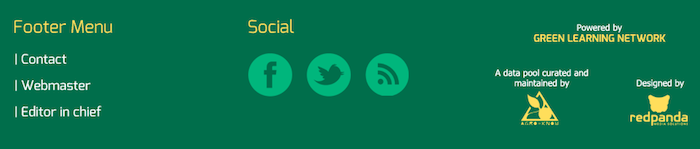
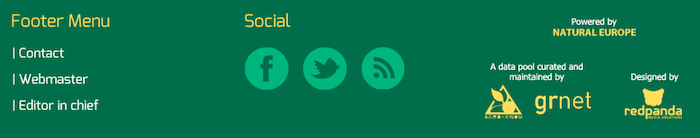
Pathways

diff --git a/index.html b/index.html
@@ -134,8 +134,8 @@
                 <!-------------------------------------------------------- Treasures-->
                 <section class="icons_nav treasures">
                     <nav class="aligncenter">
-                        <a href="listing.html?query=keyword:anthropology,palaiontology" class="trea0"><span>From the past</span></a>
-                        <a href="listing.html?query=HNHM+natural+phenomena" class="trea2"><span>Life in Nature</span></a>
+                        <a href="listing.html?query=keyword:anthropology,paleontology" class="trea0"><span>From the past</span></a>
+                        <a href="listing.html?query=natural+phenomena" class="trea2"><span>Life in Nature</span></a>
                         <a href="listing.html?query=wood booklet" class="trea1"><span>Wood Booklet</span></a>
                     </nav>
                 </section>
@@ -161,61 +161,51 @@
                     
                     <div>
                         <div class="moduletable slidermodule">
-                            <h3 class="yellow_decoration">Highlighted Specimens</h3>
-                            <div class="articles_mod_list is_slider" style="position: relative; width: 353px; height:400px;" >
+                            <h3 class="yellow_decoration">Highlighted Pathways from other Museum's'</h3>
+                            <div class="articles_mod_list is_slider" style="position: relative; width: 353px; height:480px;" >
                                 
                                 <!-- page 1 -->
                                 <div class="slider_page">
                                     <div class="slider_page_singleitem">
-                                        <a class="hasshadow" href="http://jme.collections.natural-europe.eu/content/297df056-0b43-414f-a604-4a166fc3b51b" target="_blank">
-                                            <img src="http://jme.collections.natural-europe.eu/content/297df056-0b43-414f-a604-4a166fc3b51b" alt="thumb" width="320"/>
+                                        <a class="hasshadow" href="http://education.natural-europe.eu/natural_europe/exhibits/show/pathway-slug-160/to-begin-with?nhm=MNHN" target="_blank">
+                                            <img src="images/endemic.jpg" alt="thumb" width="320"/>
                                         </a>
                                         <h2>
-                                            <a href="http://jme.collections.natural-europe.eu/content/297df056-0b43-414f-a604-4a166fc3b51b"> Urvogel Archaeopteryx lithographica</a>
+                                            <a href="http://education.natural-europe.eu/natural_europe/exhibits/show/pathway-slug-160/to-begin-with?nhm=MNHN" target="_blank"> Mediterranean Basin Endemic Species</a>
                                         </h2>
-                                        <!--<p>
-                                        The planned phasing out of milk quotas in the EU, and the transition phase takes place in a highly dynamic environment.
+                                        <p>
+                                        In this pathway the visitor is invited to follow a virtual visit through the existing exhibitions in the museums, to learn more about endemic species from Crete and Portugal.
+                                        Is proposed a virtual visit at the Natural History Museum of Crete (Greece) and the National Museum of Natural History and Science of Lisbon (Portugal), and its Botanic Garden.
                                         </p>
-                                        <div class="info clearfix">
-                                         <div class="floatleft">{j! rating}</div>
-                                         <a href="#">View reviewing history</a> <a href="#">View rating history</a>
-                                         </div>-->
                                     </div>
                                 </div>
                                 <!-- page 2 -->
                                 <div class="slider_page">
                                     <div class="slider_page_singleitem">
-                                        <a class="hasshadow" href="http://nhmc.collections.natural-europe.eu/content/b85b71f4-8550-44cf-9c8c-051f8fc6b0f6" target="_blank">
-                                            <img src="http://nhmc.collections.natural-europe.eu/content/b85b71f4-8550-44cf-9c8c-051f8fc6b0f6" alt="thumb" width="320" />
+                                        <a class="hasshadow" href="http://education.natural-europe.eu/natural_europe/exhibits/show/regional_ecosystems/to-begin-with?nhm=NHMC" target="_blank">
+                                            <img src="images/ecosystems.jpg" alt="thumb" width="320" />
                                         </a>
                                         <h2>
-                                            <a href="http://nhmc.collections.natural-europe.eu/content/b85b71f4-8550-44cf-9c8c-051f8fc6b0f6">Crab spider</a>
+                                            <a href="http://education.natural-europe.eu/natural_europe/exhibits/show/regional_ecosystems/to-begin-with?nhm=NHMC" target="_blank">Regional Ecosystems</a>
                                         </h2>
-                                        <!--<p>
-                                        The video describes the importance of the timely vaccination in livestock, in order to prevent the occasionally occurring Foot and Mouth Disease (FMD).
+                                        <p>
+                                        The environment around us integrates different ecosystems. Towns, villages, reservoirs, dams, manmade forests are examples of altered/artificial ecosystems, while a natural lake, a shrubland, a forest, a desert, a river, a coast or the sea are natural ecosystems.
                                         </p>
-                                        <div class="info clearfix">
-                                         <div class="floatleft">{j! rating}</div>
-                                         <a href="#">View reviewing history</a><a href="#">View rating history</a>
-                                         </div>-->
                                     </div>
                                 </div>
                                 <!-- page 3 -->
                                 <div class="slider_page">
                                     <div class="slider_page_singleitem">
-                                        <a class="hasshadow" href="http://tnhm.collections.natural-europe.eu/content/4354a070-d4b4-4b73-af4a-20831df5c5dd" target="_blank">
-                                            <img src="http://tnhm.collections.natural-europe.eu/content/4354a070-d4b4-4b73-af4a-20831df5c5dd" alt="thumb" width="320" />
+                                        <a class="hasshadow" href="http://education.natural-europe.eu/natural_europe/items/show/2598?eidteaser=340&nhm=TNHM" target="_blank">
+                                            <img src="images/urban_trees.jpg" alt="thumb" width="320" />
                                         </a>
                                         <h2>
-                                            <a href="http://tnhm.collections.natural-europe.eu/content/4354a070-d4b4-4b73-af4a-20831df5c5dd">Crucian Carp</a>
+                                            <a href="http://education.natural-europe.eu/natural_europe/items/show/2598?eidteaser=340&nhm=TNHM" target="_blank">Urban Trees</a>
                                         </h2>
-                                        <!--<p>
-                                         The video describes the importance of the timely vaccination in livestock, in order to prevent the occasionally occurring Foot and Mouth Disease (FMD).
+                                        <p>
+                                         The subject of the lecture is trees. Lecture is suitable for introducing a new subject and reviewing. Children are taught how to identify trees with the help of distinguishing characteristics, and more information about trees and their usage is given. Lecture consists of three parts: introductive part, fieldtrip to the park near the museum (Tornide väljak) and follow-up at school. 
                                          </p>
-                                         <div class="info clearfix">
-                                         <div class="floatleft">{j! rating}</div>
-                                         <a href="#">View reviewing history</a><a href="#">View rating history</a>
-                                         </div>-->
+                                         
                                     </div>
                                 </div>
                             </div>
@@ -223,11 +213,11 @@
                     </div>
                                     <!--end highlighted-->
                 
-                    <!--species of the day-->
+                    <!--TEACHERS PATHWAYS-->
                     
                     <div class="width330">
                         <div class="moduletable slidermodule">
-                            <h3 class="green_decoration">Species of the day</h3>
+                            <h3 class="green_decoration">Teachers Pathways</h3>
                             <div class="articles_mod_list is_slider" style="position: relative; width: 353px; height:400px;"> 
                                 
                                 
@@ -237,18 +227,15 @@
                                 <div class="slider_page">
                                     <div class="slider_page_singleitem">
                                         <a class="hasshadow" href="item.html?id=14349" target="_blank">
-                                            <img src="http://publication.nhmus.hu/NatEu/HNHM_Zoology/HNHM-DIP_4-aurl.jpg" alt="thumb" width="320"/>
+                                            <img src="images/no-image.gif" alt="thumb" width="90%"/>
                                         </a>
                                         <h2>
-                                            <a href="http://publication.nhmus.hu/NatEu/HNHM_Zoology/HNHM-DIP_4-aurl.jpg">robberfly (Laphria chrysotelus)</a>
+                                            <a href="#">requirements missing</a>
                                         </h2>
-                                        <!--<p>
-                                        The planned phasing out of milk quotas in the EU, and the transition phase takes place in a highly dynamic environment.
+                                        <p>
+                                        An example item just to feel the mockup
                                         </p>
-                                        <div class="info clearfix">
-                                         <div class="floatleft">{j! rating}</div>
-                                         <a href="#">View reviewing history</a> <a href="#">View rating history</a>
-                                         </div>-->
+
                                     </div>
                                 </div>
                                 
@@ -256,18 +243,14 @@
                                 <div class="slider_page">
                                     <div class="slider_page_singleitem">
                                         <a class="hasshadow" href="item.html?id=14349" target="_blank">
-                                            <img src="http://publication.nhmus.hu/NatEu/HNHM_Zoology/HNHM-DIP_4-aurl.jpg" alt="thumb" width="320"/>
+                                            <img src="images/no-image.gif" alt="thumb" width="90%"/>
                                         </a>
                                         <h2>
-                                            <a href="http://publication.nhmus.hu/NatEu/HNHM_Zoology/HNHM-DIP_4-aurl.jpg">A second item</a>
+                                            <a href="#">requirements missing</a>
                                         </h2>
-                                        <!--<p>
-                                         The planned phasing out of milk quotas in the EU, and the transition phase takes place in a highly dynamic environment.
-                                         </p>
-                                         <div class="info clearfix">
-                                         <div class="floatleft">{j! rating}</div>
-                                         <a href="#">View reviewing history</a> <a href="#">View rating history</a>
-                                         </div>-->
+                                        <p>
+                                        An example item just to feel the mockup
+                                        </p>
                                     </div>
                                 </div>
 
@@ -290,6 +273,26 @@
             <!--footer-->
             <section class="supporters">
                 <div class="inner aligncenter">
+                    <div class="footer_menu floatleft">
+                        <img src="style/images/footer_menu_title.png">
+                        <ul class="">
+                            <li><a href="mailto:mtminfo@mttm.hu" >| Contact</a></li>
+                            <li><a href="mailto:rajczy@mttm.hu">| Webmaster</a></li>
+                            <li><a href="mailto:vasarhelyi@mttm.hu" >| Editor in chief </a></li>
+                        </ul>
+                    </div>
+                    <div class="footer_social floatleft">
+                        <img src="style/images/footer_social.png">
+                        
+                    </div>
+                    <div class="footer_links floatleft">
+                        <a href="http://www.natural-europe.eu/el"><img src="style/images/powered_by.png"></a>
+                        <div>
+                        <img src="style/images/curated_by.png">
+                        <img src="style/images/designed_by.png">
+                        </div>
+                    </div>
+                    
                     <!--<a href="#" class="developed_by">Developed by</a>
                     <a href="#" class="operated_by">Operated by</a>
                     <a href="#" class="designed_by">Designed by</a>

diff --git a/style/my-style.css b/style/my-style.css
@@ -712,6 +712,7 @@ li.slider_page_listitem > div .info > a {
 .slider_page_singleitem a
 {
     color:white;
+    font-size:14px;
 }
 
 .slider_page_singleitem a:hover
@@ -788,34 +789,41 @@ li.slider_page_listitem > div .info > a {
 .supporters {
 	height:190px;
 	/*padding-top:54px;*/
-	background:#006e4b url(images/footer_static.png) center center no-repeat;
+	background:#006e4b;
+    padding:20px 30px 0px 120px;
     border-top:15px solid #ffde5b;
 }
-.supporters a {
-	text-align:center;
-	font-size:10px;
-	color:#919191;
-	padding:0 0 103px 0;
-	margin:0 50px;
-	display:inline-block;
+
+.footer_menu{
+    padding: 0px 40px 0px 40px;
+
 }
-.developed_by {
-	background:url(images/uah.jpg) center bottom no-repeat;
-	width:82px;
+.footer_menu ul{
+    list-style : none;
+    text-align:left;
 }
-.operated_by {
-	background:url(images/agroknow.jpg) center bottom no-repeat;
-	width:88px;
+
+.footer_menu ul a{
+    color:white;
 }
-.designed_by {
-	background:url(images/redpanda.jpg) center bottom no-repeat;
-	width:90px;
+
+.footer_menu ul a:hover{
+    color:white;
+    background:none;
+    font-size:14px;
 }
-.supported_by {
-	text-align:left !important;
-	background:url(images/naturalEurope.png) center bottom no-repeat;
-	width:185px;
+
+.footer_social{
+ padding: 0px 40px 0px 40px;
 }
+    
+.footer_links{
+    padding: 0px 0px 0px 40px;
+    margin:0px;
+    
+}
+
+
 
 /* INNERPARE LISTINGPAGE */
 body.innerpage #main {

diff --git a/js/ariadne-json.js b/js/ariadne-json.js
@@ -12,11 +12,12 @@ function getItemJSONP(itemID)
                 success: function(data)
                 {
                 
-                //alert(data);
+                
                 
                 //parse array and create an JS Object Array
                 //every item is a JSON
                 var thisJson = JSON.stringify(data);
+                alert(thisJson);
                 var tmp = JSON.parse(thisJson);
                 var record = tmp.result.metadata[0];
                 

diff --git a/style/style.css b/style/style.css
@@ -496,7 +496,7 @@ table .form-button, table .form-submit {
     background-color:#b0b3a4;
     padding-left: 80px;
     padding-top: 30px;
-    height:430px;
+    height:490px;
 }
 }
 
